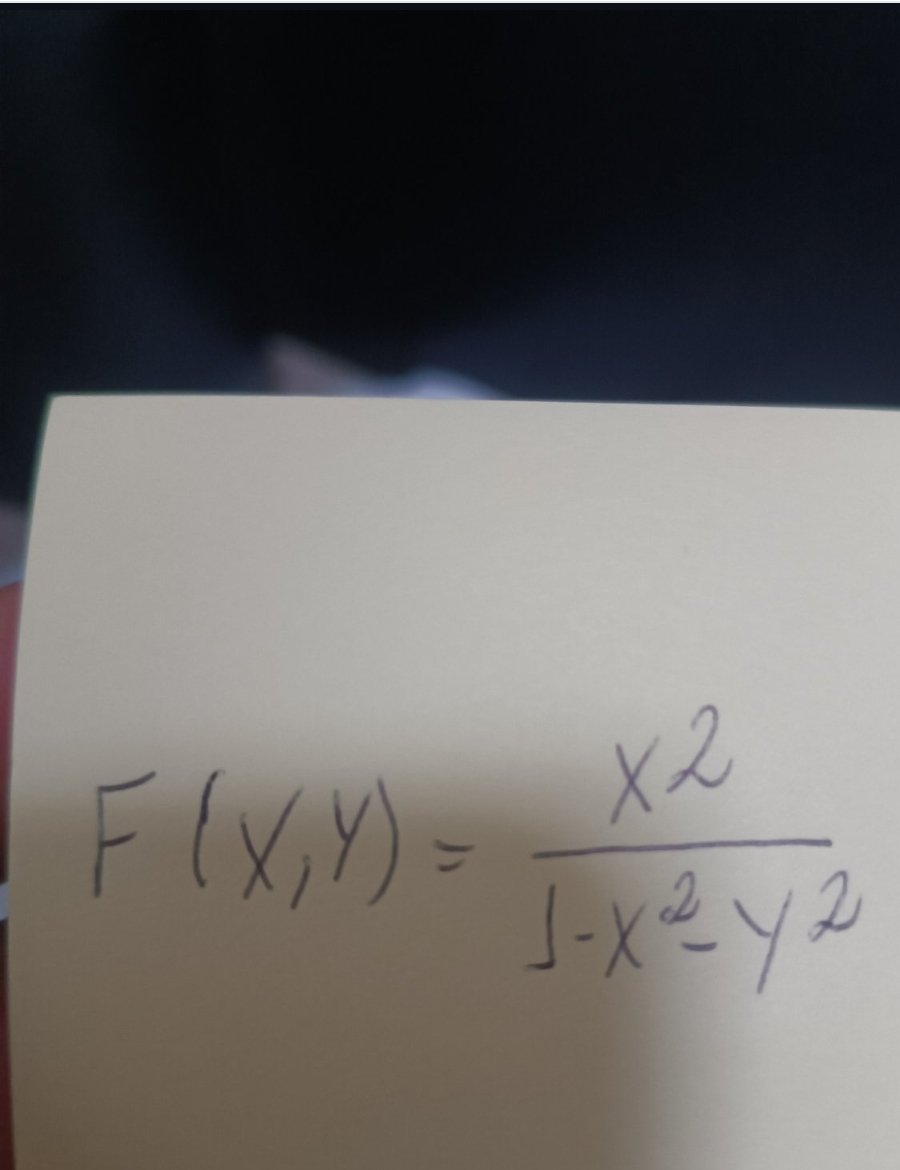
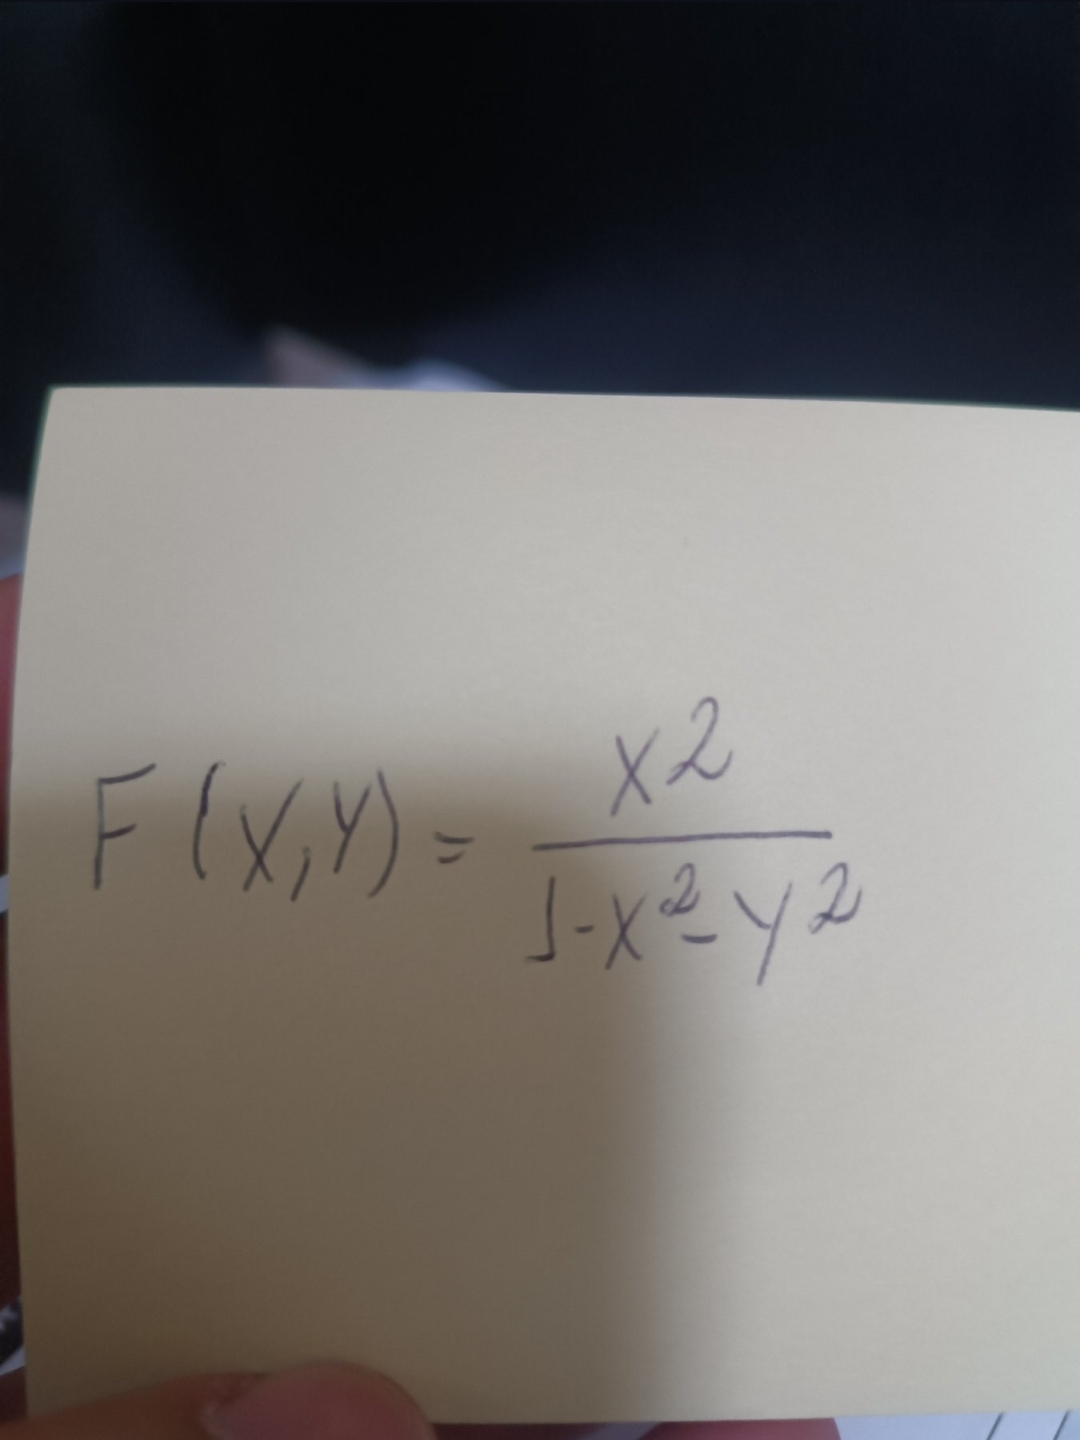
Foto lida por votação, alternativas de leitura e expressão com letras vira análise de função
- Foto: lê com 4 resoluções/grossuras e vota símbolo a símbolo (expoente costuma ser número)
- Não apaga mais a barra de fração ao tirar linhas do caderno
- Remove riscos verticais retos (borda do papel, sombra)
- Recorte: junta todos os pedaços da conta marcada (F(x,y) = e a fração)
- Tela da solução mostra 'outras leituras' para tocar na certa
- Progresso da leitura da foto (1/4, 2/4...)
- Expressão com letras que não simplifica (ex.: x²/(1−x²−y²)) é analisada
  como função: domínio, derivadas, raízes — em vez de só reorganizar sinais
- Fotos reais de teste em testes/fotos

Claude-Session: https://claude.ai/code/session_01UcTSQRpNrJtiyxE1biTLKP

Changed region(s): [[0.0, 0.1846, 1.0, 0.7692], [0.0, 0.5846, 1.0, 1.0], [0.4044, 0.7385, 0.4356, 0.7692]]

diff --git a/js/leitor.js b/js/leitor.js
@@ -35,7 +35,7 @@ export function limpar(latex) {
 }
 
 export async function lerTracos(tracos, valida) {
-  return (await lerTracosMelhor(tracos, valida)).melhor.latex;
+  return resultado((await lerTracosMelhor(tracos, valida)).todas);
 }
 
 // escolhe a leitura mais provável entre as direções testadas
@@ -142,7 +142,7 @@ const MODEL_H = 256, TARGET_H = 128, MAX_W = 1024, MIN_W = 128, PAD = 16;
 
 // 1) reduz a foto  2) compensa sombra/iluminação  3) separa a tinta  4) acha a conta
 // 5) afina os traços e redesenha com grossura uniforme (igual à caneta do app)
-export function prepararFoto(src, maxLado = 1000) {
+export function prepararFoto(src, { tudo = false } = {}, maxLado = 1000) {
   const esc0 = Math.min(1, maxLado / Math.max(src.width, src.height));
   const W = Math.max(1, Math.round(src.width * esc0)), H = Math.max(1, Math.round(src.height * esc0));
   const cv = document.createElement('canvas'); cv.width = W; cv.height = H;
@@ -170,6 +170,7 @@ export function prepararFoto(src, maxLado = 1000) {
     if (bb - rr > 25 && L[i] > 135 && L[i] > fundo2[i] * 0.62) tinta[i] = 0;
   }
   // ... e corridas horizontais longas (atravessam a folha), menos onde um traço cruza
+  // (barra de fração é mais curta e fica no meio; linha de caderno atravessa a folha ou encosta na borda)
   const corrida = Math.max(40, W * 0.18);
   for (let y = 0; y < H; y++) {
     let x = 0;
@@ -177,7 +178,9 @@ export function prepararFoto(src, maxLado = 1000) {
       if (!tinta[y * W + x]) { x++; continue; }
       let fim = x, falha = 0;
       while (fim + 1 < W && (tinta[y * W + fim + 1] || (falha < 3 && ++falha))) { if (tinta[y * W + fim + 1]) falha = 0; fim++; }
-      if (fim - x + 1 >= corrida) {
+      const comp = fim - x + 1;
+      const encosta = x < W * 0.04 || fim > W * 0.96;
+      if (comp >= W * 0.55 || (encosta && comp >= corrida)) {
         for (let k = x; k <= fim; k++) {
           const cima = y > 2 && tinta[(y - 3) * W + k], baixo = y < H - 3 && tinta[(y + 3) * W + k];
           if (!(cima && baixo)) tinta[y * W + k] = 0;
@@ -198,6 +201,7 @@ export function prepararFoto(src, maxLado = 1000) {
     if (h > H * 0.45 || (w > W * 0.7 && h > hMed * 1.5)) return false; // grande demais
     const cheio = c.n / (w * h);
     if (cheio > 0.55 && w * h > hMed * hMed * 2) return false; // mancha cheia (sombra, dedo)
+    if (h > hMed * 3.2 && w < h * 0.12) return false; // risco vertical comprido e reto (borda do papel, sombra)
     const grossura = c.n / Math.max(w, h);
     if (grossura > hMed * 0.6) return false;
     return true;
@@ -222,6 +226,24 @@ export function prepararFoto(src, maxLado = 1000) {
       }
     }
   }
+  // pedaços na mesma linha (ex.: "F(x,y) =" e a fração) se juntam mesmo com espaço maior
+  for (let mudou = true; mudou;) {
+    mudou = false;
+    for (let i = 0; i < grupos.length && !mudou; i++) for (let j = i + 1; j < grupos.length && !mudou; j++) {
+      const a = grupos[i], b = grupos[j];
+      const sobrepoe = Math.min(a.y1, b.y1) - Math.max(a.y0, b.y0);
+      const menor = Math.min(a.y1 - a.y0, b.y1 - b.y0);
+      const distX = Math.max(0, Math.max(a.x0, b.x0) - Math.min(a.x1, b.x1));
+      const distY = Math.max(0, Math.max(a.y0, b.y0) - Math.min(a.y1, b.y1));
+      const juntar = tudo
+        ? (sobrepoe > menor * 0.2 && distX < hMed * 9) || (distX < hMed * 3 && distY < hMed * 3) // recorte: o usuário marcou a conta, tolerância maior
+        : sobrepoe > menor * 0.4 && distX < hMed * 4.5;
+      if (juntar) {
+        a.cs.push(...b.cs); a.n += b.n; a.x0 = Math.min(a.x0, b.x0); a.y0 = Math.min(a.y0, b.y0); a.x1 = Math.max(a.x1, b.x1); a.y1 = Math.max(a.y1, b.y1);
+        grupos.splice(j, 1); mudou = true;
+      }
+    }
+  }
   grupos.sort((a, b) => b.n - a.n);
   const g = grupos[0];
   // máscara só da conta
@@ -235,8 +257,8 @@ export function prepararFoto(src, maxLado = 1000) {
 }
 
 // tensor no formato do modelo (traços brancos uniformes em fundo preto)
-export function imagemParaEntrada(src) {
-  const { esqueleto, w, h } = prepararFoto(src);
+export function imagemParaEntrada(src, opc = {}, prep = null) {
+  const { esqueleto, w, h } = prep || prepararFoto(src, opc);
   const raw = { w: w + PAD * 2, h: h + PAD * 2 };
   const esc = Math.min(TARGET_H / raw.h, MAX_W / raw.w);
   const dw = Math.max(1, Math.round(raw.w * esc)), dh = Math.max(1, Math.round(raw.h * esc));
@@ -245,7 +267,7 @@ export function imagemParaEntrada(src) {
   const ac = alvo.getContext('2d', { willReadFrequently: true });
   ac.fillStyle = '#000'; ac.fillRect(0, 0, canvasW, MODEL_H);
   ac.fillStyle = '#fff';
-  const raio = 1.35; // como a caneta do app depois de reduzida
+  const raio = opc.raio || 1.35; // como a caneta do app depois de reduzida
   for (let y = 0; y < h; y++) for (let x = 0; x < w; x++) if (esqueleto[y * w + x]) {
     ac.beginPath(); ac.arc((x + PAD) * esc, (y + PAD) * esc, raio, 0, 6.2832); ac.fill();
   }
@@ -325,8 +347,56 @@ function afinar(img, W, H) {
   return m;
 }
 
-export async function lerImagem(canvas) {
+// lê a foto de alguns jeitos (resoluções e grossuras de traço) e combina por votação, símbolo a símbolo
+// devolve { latex, alternativas: [outras leituras diferentes] }
+const VARIANTES_FOTO = [[1000, 1.35], [700, 1.35], [1000, 1.0], [1000, 2.3]];
+export async function lerImagem(canvas, { tudo = false, valida = () => 1, progresso = () => {} } = {}) {
   await preparar();
-  const r = await motor.recognize(imagemParaEntrada(canvas), vocab, 'auto');
-  return limpar(r.latex);
+  const preps = new Map();
+  const leituras = [];
+  for (const [k, [lado, raio]] of VARIANTES_FOTO.entries()) {
+    progresso(k + 1, VARIANTES_FOTO.length);
+    await new Promise((r) => setTimeout(r, 0));
+    if (!preps.has(lado)) preps.set(lado, prepararFoto(canvas, { tudo }, lado));
+    motor.__confianca = undefined;
+    const r = await motor.recognize(imagemParaEntrada(canvas, { raio }, preps.get(lado)), vocab, 'auto');
+    const latex = limpar(r.latex);
+    if (latex) leituras.push({ latex, conf: motor.__confianca ?? -1 });
+  }
+  if (!leituras.length) return { latex: '', alternativas: [] };
+  const votada = votar(leituras);
+  const cands = [];
+  if (votada) cands.push({ latex: votada, pontos: valida(votada) + 0.3 });
+  for (const l of leituras) cands.push({ latex: l.latex, pontos: valida(l.latex) + l.conf });
+  cands.sort((a, b) => b.pontos - a.pontos);
+  return resultado(cands);
+}
+
+// votação símbolo a símbolo entre leituras do mesmo tamanho
+const fichas = (l) => l.match(/\\[a-zA-Z]+|\S/g) || [];
+function votar(leituras) {
+  const porTam = new Map();
+  for (const l of leituras) { const f = fichas(l.latex); if (!porTam.has(f.length)) porTam.set(f.length, []); porTam.get(f.length).push({ f, conf: l.conf }); }
+  const grupo = [...porTam.values()].sort((a, b) => b.length - a.length)[0];
+  if (!grupo || grupo.length < 2) return null;
+  const n = grupo[0].f.length;
+  const out = [];
+  for (let i = 0; i < n; i++) {
+    const noExpoente = i >= 2 && grupo[0].f[i - 1] === '{' && grupo[0].f[i - 2] === '^';
+    const votos = new Map();
+    for (const g of grupo) {
+      const t = g.f[i];
+      let peso = 1 + g.conf; // conf é negativo e pequeno
+      if (noExpoente) peso *= /\d/.test(t) ? (t === '2' ? 1.5 : 1.2) : 0.4; // expoente costuma ser número (x², y³)
+      votos.set(t, (votos.get(t) || 0) + peso);
+    }
+    out.push([...votos.entries()].sort((a, b) => b[1] - a[1])[0][0]);
+  }
+  return out.join(' ').replace(/\s*([{}^_()=+\-])\s*/g, '$1').replace(/(\d) (\d)/g, '$1$2').replace(/ +/g, ' ').trim();
+}
+
+function resultado(leituras) {
+  const vistos = new Set();
+  const unicas = leituras.filter((l) => l.latex && !vistos.has(l.latex) && vistos.add(l.latex));
+  return { latex: unicas[0]?.latex || '', alternativas: unicas.slice(1, 4).map((l) => l.latex) };
 }

diff --git a/js/app.js b/js/app.js
@@ -154,7 +154,7 @@ function resolverLatex(latex, origem = '✓ calculado no aparelho') {
   } catch (e) {
     const amigavel = e instanceof ErroMat || e?.name === 'ErroMat';
     if (!amigavel) console.error(e);
-    mostrarFalha(latex, amigavel ? e.message : 'Não consegui resolver essa no aparelho.');
+    mostrarFalha(latex, amigavel ? e.message : 'Não consegui resolver essa no aparelho.', origem);
     return;
   }
   mostrarSolucao(r, origem);
@@ -178,8 +178,8 @@ window.addEventListener('popstate', () => {
   if ($('canetaCaixa').classList.contains('cheia')) telaCheia(false, true);
 });
 
-function mostrarFalha(latex, msg) {
-  ultimo = { latex, resposta: '' };
+function mostrarFalha(latex, msg, origem = '') {
+  ultimo = { latex, resposta: '', origem };
   $('resTipo').textContent = 'Não consegui resolver';
   $('resOrigem').textContent = '';
   mat($('resQuestao'), latex);
@@ -190,6 +190,7 @@ function mostrarFalha(latex, msg) {
   av.hidden = false; av.className = 'aviso erro'; av.textContent = msg;
   $('btnPassos').hidden = true;
   $('passos').hidden = true;
+  mostrarAlternativas(ultimo.origem || '');
   abrirSolucao();
 }
 
@@ -213,7 +214,28 @@ function mostrarSolucao(r, origem) {
   desenharPassos($('passos'), r.passos);
   $('passos').hidden = true;
   salvarHistorico(r.entrada, r.resposta, r.titulo);
+  mostrarAlternativas(origem);
   abrirSolucao();
+}
+
+function mostrarAlternativas(origem) {
+  const box = $('alternativas');
+  box.innerHTML = '';
+  const lista = /^lido/.test(origem) ? alternativas : [];
+  box.hidden = !lista.length;
+  if (!lista.length) return;
+  const t = document.createElement('small'); t.textContent = 'Não é isso? Toque na leitura certa:'; box.append(t);
+  for (const a of lista) {
+    const b = document.createElement('button'); b.className = 'alt';
+    mat(b, a, false);
+    b.addEventListener('click', () => {
+      const outras = [ultimo.latex, ...alternativas.filter((x) => x !== a)];
+      alternativas = outras;
+      mf.value = a; atualizarPrevia();
+      resolverLatex(a, origem);
+    });
+    box.append(b);
+  }
 }
 
 function desenharPassos(ol, passos) {
@@ -250,10 +272,14 @@ $('btnCopiar').addEventListener('click', async () => {
 });
 
 // o que foi lido (caneta/foto/voz) vai para o visor; se der para resolver, abre a solução
-function usarLeitura(latex, de) {
+let alternativas = [];
+function usarLeitura(lido, de) {
+  let latex = typeof lido === 'string' ? lido : lido.latex;
+  alternativas = (typeof lido === 'string' ? [] : lido.alternativas || []).filter((a) => { try { analisar(a); return true; } catch { return false; } });
   if (!latex) { toast('Não consegui ler. Escreva maior e com os símbolos separados.', true); return; }
   let ok = true;
   try { analisar(latex); } catch { ok = false; }
+  if (!ok && alternativas.length) { latex = alternativas.shift(); ok = true; }
   mf.value = latex;
   atualizarPrevia();
   if (!ok) {
@@ -289,9 +315,9 @@ async function lerCaneta() {
   carregando('Lendo sua letra…');
   try {
     const m = await leitor();
-    const latex = await m.lerTracos(caneta.ultimaConta(), validarLeitura);
+    const lido = await m.lerTracos(caneta.ultimaConta(), validarLeitura);
     if ($('canetaCaixa').classList.contains('cheia')) telaCheia(false);
-    usarLeitura(latex, 'caneta');
+    usarLeitura(lido, 'caneta');
   } catch (e) { console.error(e); toast(e.message || 'Não consegui ler a escrita.', true); }
   finally { carregando(null); }
 }
@@ -392,7 +418,7 @@ async function lerFoto() {
   carregando('Lendo a foto…');
   try {
     const m = await leitor();
-    usarLeitura(await m.lerImagem(c), 'foto');
+    usarLeitura(await m.lerImagem(c, { tudo: !!fotoRecorte, valida: validarLeitura, progresso: (i, n) => carregando(`Lendo a foto com cuidado… ${i}/${n}`) }), 'foto');
   } catch (e) { console.error(e); toast(e.message || 'Não consegui ler a foto.', true); }
   finally { carregando(null); }
 }

diff --git a/testes/leitor.html b/testes/leitor.html
@@ -31,13 +31,13 @@ function foto(t, escala, ruido) {
 (async () => {
   try {
     const res = [];
-    for (const t of ['2+3=5', '2x+3=7']) res.push('caneta ' + t + ' -> ' + await lerTracos(escrever(t)));
+    for (const t of ['2+3=5', '2x+3=7']) res.push('caneta ' + t + ' -> ' + (await lerTracos(escrever(t))).latex);
     for (const [t, e, r] of [['2x+3=7', 3, 30], ['2+3=5', 5, 50], ['7x=3', 2, 20]]) {
       const c = foto(t, e, r);
       const ent = imagemParaEntrada(c);
       const v = document.createElement('canvas'); v.width = ent.width; v.height = ent.height; const vc = v.getContext('2d'); const im = vc.createImageData(ent.width, ent.height); ent.tensor.forEach((g, i) => { im.data[i*4] = im.data[i*4+1] = im.data[i*4+2] = g * 255; im.data[i*4+3] = 255; }); vc.putImageData(im, 0, 0);
       document.getElementById('imgs').append(c, v); c.style.width = '400px';
-      res.push('foto ' + t + ' (' + c.width + 'x' + c.height + ') -> ' + await lerImagem(c));
+      res.push('foto ' + t + ' (' + c.width + 'x' + c.height + ') -> ' + (await lerImagem(c)).latex);
     }
     out.textContent = res.join('\n');
   } catch (e) { out.textContent = 'ERRO ' + e.message + '\n' + e.stack; }

diff --git a/js/motor/index.js b/js/motor/index.js
@@ -29,10 +29,24 @@ export function resolver(entrada, opts = {}) {
     case 'lim': r = limiteComPassos(ast, opts); break;
     case 'call': r = ferramenta(ast); break;
     default:
-      if (A.temVar(ast)) r = simplificar(ast, opts);
+      if (A.temVar(ast)) r = expressaoComLetras(ast, opts);
       else r = resolverAritmetica(ast, opts);
   }
   r.ast = ast;
+  return r;
+}
+
+// expressão com letras: se dá para simplificar de verdade, simplifica; senão analisa como função
+function expressaoComLetras(ast, opts) {
+  const vs = [...A.variaveis(ast)].sort();
+  let melhora = false;
+  try {
+    const b = A.latex(deAST(ast, opts).toASTBonito(vs.includes('x') ? 'x' : vs[0]));
+    melhora = b.length < A.latex(ast).length - 1 || temProdutoDeSomas(ast);
+  } catch (e) { if (!(e instanceof ErroMat)) throw e; }
+  if (melhora || vs.length > 3) return simplificar(ast, opts);
+  const r = analisarFuncao({ t: 'func', nome: 'f', vars: vs, f: ast }, opts);
+  r.titulo = vs.length > 1 ? 'Função de várias variáveis' : 'Função';
   return r;
 }
 

diff --git a/css/app.css b/css/app.css
@@ -187,6 +187,11 @@ math-field::part(menu-toggle), math-field::part(virtual-keyboard-toggle) { displ
 .passos summary { color: var(--azul); font-size: 14px; font-weight: 700; }
 .passos .det { margin-top: 8px; padding-left: 12px; border-left: 3px solid var(--azul-cl); }
 
+.alternativas { margin-top: 10px; display: flex; flex-wrap: wrap; gap: 8px; align-items: center; }
+.alternativas small { width: 100%; font-size: 13px; font-weight: 700; color: var(--suave); }
+.alt { border: 1px solid var(--linha); background: var(--sup); border-radius: 14px; padding: 8px 12px; font-size: 1rem; max-width: 100%; overflow-x: auto; }
+.alt:active { background: var(--azul-cl); }
+
 /* ---------- carregando ---------- */
 .carregando { position: fixed; inset: 0; z-index: 60; display: grid; place-items: center; background: rgba(21, 28, 51, .25); }
 .carregando-caixa { display: flex; align-items: center; gap: 14px; background: var(--sup); padding: 18px 22px; border-radius: 20px; font-weight: 700; box-shadow: 0 12px 40px rgba(21, 28, 51, .2); }

diff --git a/index.html b/index.html
@@ -107,6 +107,7 @@
   <div class="sol-corpo">
     <div class="sol-meta"><span id="resTipo" class="tag"></span><span id="resOrigem" class="origem"></span></div>
     <div class="sol-questao"><div id="resQuestao" class="mat"></div></div>
+    <div id="alternativas" class="alternativas" hidden></div>
     <div class="sol-resposta">
       <small>Resposta</small>
       <div id="resResposta" class="mat grande"></div>
